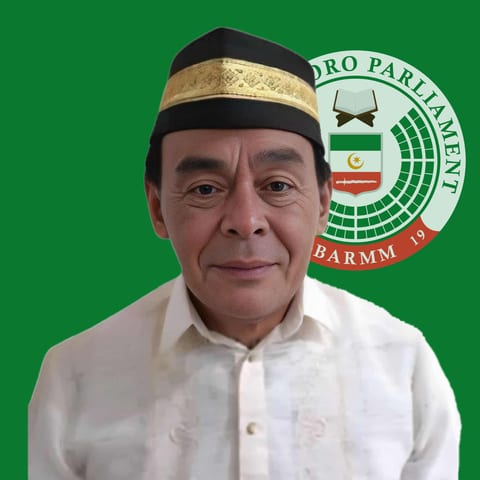
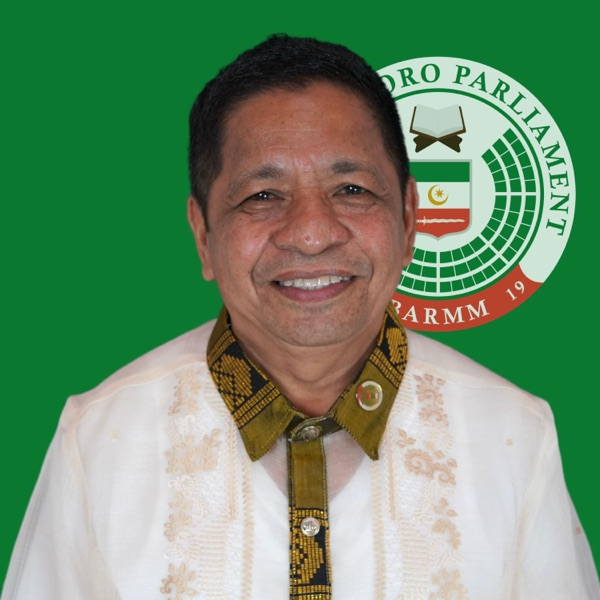
data(directory): Kelie Antao heads the SGA again; Bangsamoro READi gets its own entry
Chief Minister Macacua appointed MP Mohammad Kelie U. Antao administrator of
the Special Geographic Area in July 2026 (Inquirer, 18 July); Butch Malang,
administrator since September 2022 and last named so in April 2026, closes
his term. Antao's Parliament portrait replaces Malang's.

Bangsamoro READi (Rapid Emergency Action on Disaster Incidence) is listed as
an office attached to MILG, under Director Muhammad Farzieh B. Abutazil (BIO,
August 2026), with its three divisions from MILG's key officials list. An
office can now name the office whose budget funds it; READi's budget link
goes to MILG's.

diff --git a/apps/www/app/directory/office/[slug]/page.tsx b/apps/www/app/directory/office/[slug]/page.tsx
@@ -37,6 +37,9 @@ export default async function OfficeDirectoryPage({ params }: { params: Promise<
 	const portrait = headPhoto(o.slug)
 	const building = officePhoto(o.slug, o.address)
 	const org = officeStructure(o.slug)
+	// An office funded within another's budget links to that one.
+	const budget = budgetHref({ slug: o.budget_of ?? o.slug })
+	const budgetOwner = o.budget_of ? directoryOffice(o.budget_of) : undefined
 	const logo = officeLogo(o.slug)
 
 	return (
@@ -132,8 +135,8 @@ export default async function OfficeDirectoryPage({ params }: { params: Promise<
 						<ul className='mt-2 space-y-1.5 text-[14px] leading-6'>
 							<li className='flex gap-2'>
 								<CoinsIcon size={15} className='mt-1 shrink-0 text-[var(--ink-3)]' aria-hidden='true' />
-								<a href={budgetHref(o)} className={linkClass}>
-									Year by year, in the Budget workspace
+								<a href={budget} className={linkClass}>
+									{budgetOwner ? `Within the ${budgetOwner.acronym ?? budgetOwner.name}’s budget, year by year` : 'Year by year, in the Budget workspace'}
 								</a>
 							</li>
 						</ul>
@@ -214,7 +217,7 @@ export default async function OfficeDirectoryPage({ params }: { params: Promise<
 					)}
 					<p className='mt-3 text-[12.5px] text-[var(--ink-mute)] opacity-70'>
 						Read with the office’s{' '}
-						<a href={budgetHref(o)} className={linkClass}>
+						<a href={budget} className={linkClass}>
 							budget
 						</a>
 						, a tenure says who ran the office when its money was spent.

diff --git a/apps/www/app/_lib/directory.ts b/apps/www/app/_lib/directory.ts
@@ -43,6 +43,11 @@ export type DirectoryOffice = {
 	sources: { label: string; url: string }[]
 	/** When an editor last confirmed the entry against its sources. */
 	checked?: string | null
+	/** For an office the programs-and-services list doesn't carry: its kind and the office it sits under. */
+	kind?: 'office' | 'ministry' | 'attached'
+	parent?: string | null
+	/** The office whose budget funds this one, where it has no budget line of its own. */
+	budget_of?: string
 }
 
 export type Hotline = { name: string; number: string; source: string }
@@ -69,8 +74,8 @@ const KIND = new Map(serviceOffices.map((o) => [o.slug, o]))
 /** The office's kind and parent, kept with its programs and services so the two lists never disagree. */
 export const directoryOffices = (dataset.offices as DirectoryOffice[]).map((o) => ({
 	...o,
-	kind: KIND.get(o.slug)?.kind ?? 'attached',
-	parent: KIND.get(o.slug)?.parent ?? null,
+	kind: KIND.get(o.slug)?.kind ?? o.kind ?? 'attached',
+	parent: KIND.get(o.slug)?.parent ?? o.parent ?? null,
 }))
 export const directoryOffice = (slug: string) => directoryOffices.find((o) => o.slug === slug)
 
